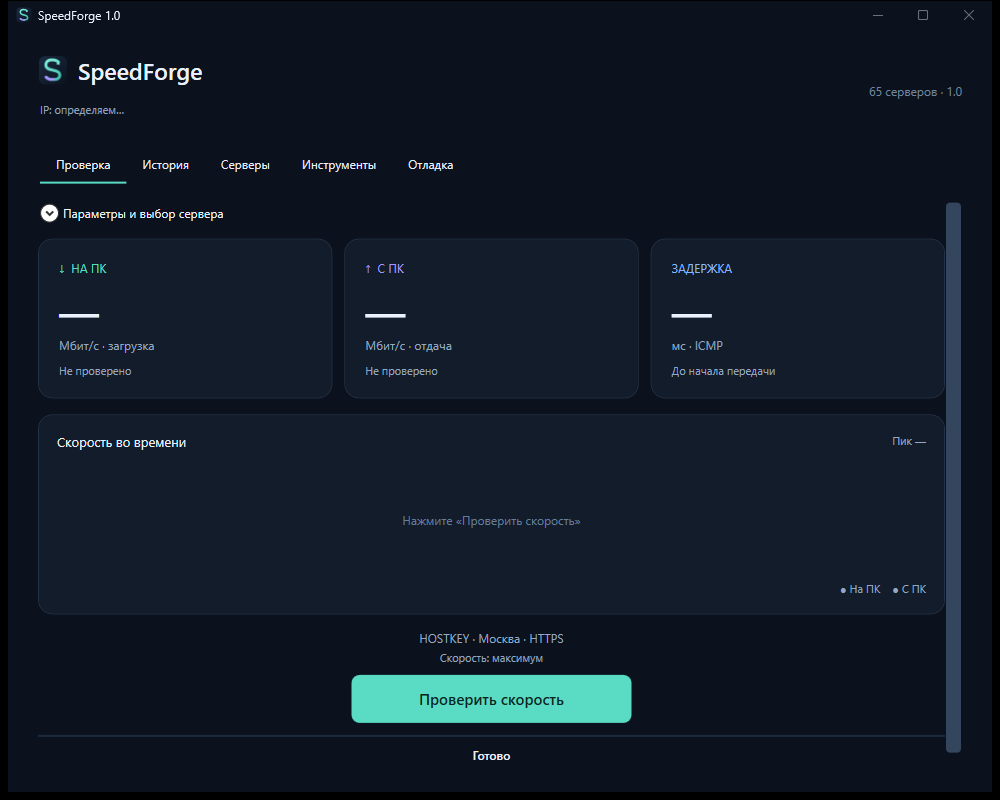
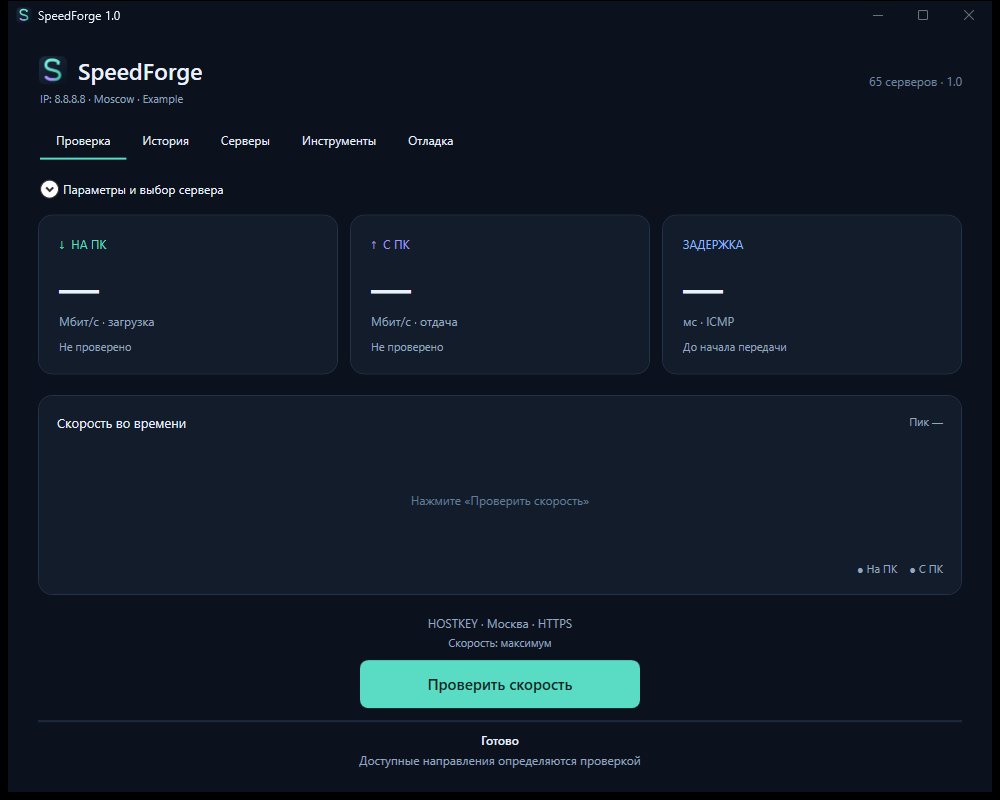
Keep startup IP compact and verify GeoIP layout and selection safeguards

diff --git a/src/SpeedForge.Desktop/MainWindow.xaml b/src/SpeedForge.Desktop/MainWindow.xaml
@@ -1,7 +1,7 @@
 <Window x:Class="SpeedForge.Desktop.MainWindow" xmlns="http://schemas.microsoft.com/winfx/2006/xaml/presentation" xmlns:x="http://schemas.microsoft.com/winfx/2006/xaml" Title="SpeedForge 1.0" Icon="/Assets/SpeedForge.ico" Width="1000" Height="800" MinWidth="840" MinHeight="700" Background="#0B121D" Foreground="#EAF1FC" FontFamily="Segoe UI" WindowStartupLocation="CenterScreen" Closing="Window_Closing">
 <Window.Resources><Style TargetType="TabItem"><Setter Property="Foreground" Value="#92A6BF"/><Setter Property="Padding" Value="16,10"/><Setter Property="Template"><Setter.Value><ControlTemplate TargetType="TabItem"><Border x:Name="TabBorder" Background="Transparent" BorderBrush="Transparent" BorderThickness="0,0,0,2" Padding="{TemplateBinding Padding}"><ContentPresenter ContentSource="Header"/></Border><ControlTemplate.Triggers><Trigger Property="IsSelected" Value="True"><Setter TargetName="TabBorder" Property="BorderBrush" Value="#59DBC4"/><Setter Property="Foreground" Value="#EAF1FC"/></Trigger><Trigger Property="IsMouseOver" Value="True"><Setter TargetName="TabBorder" Property="Background" Value="#14202F"/></Trigger></ControlTemplate.Triggers></ControlTemplate></Setter.Value></Setter></Style></Window.Resources>
 <Grid Background="#0B121D"><Grid Margin="30,24"><Grid.RowDefinitions><RowDefinition Height="Auto"/><RowDefinition Height="*"/></Grid.RowDefinitions>
-<DockPanel Margin="0,0,0,16"><TextBlock x:Name="CatalogCount" DockPanel.Dock="Right" Foreground="#70869F" FontSize="12" VerticalAlignment="Center"/><StackPanel><StackPanel Orientation="Horizontal"><Image Source="/Assets/SpeedForge.png" Width="30" Height="30" Margin="0,0,10,0" RenderOptions.BitmapScalingMode="HighQuality"/><TextBlock Text="SpeedForge" FontSize="23" FontWeight="SemiBold" VerticalAlignment="Center"/></StackPanel><TextBox x:Name="ConnectionInfo" Text="IP: определяем…" IsReadOnly="True" MaxWidth="590" HorizontalAlignment="Left" Background="Transparent" BorderThickness="0" Padding="0" Foreground="#92A6BF" FontSize="11" Margin="0,6,0,0"/><TextBlock x:Name="PageTitle" Visibility="Collapsed"/><TextBlock x:Name="PageSubtitle" Visibility="Collapsed"/></StackPanel></DockPanel>
+<DockPanel Margin="0,0,0,12"><TextBlock x:Name="CatalogCount" DockPanel.Dock="Right" Foreground="#70869F" FontSize="12" VerticalAlignment="Center"/><StackPanel><StackPanel Orientation="Horizontal"><Image Source="/Assets/SpeedForge.png" Width="30" Height="30" Margin="0,0,10,0" RenderOptions.BitmapScalingMode="HighQuality"/><TextBlock Text="SpeedForge" FontSize="23" FontWeight="SemiBold" VerticalAlignment="Center"/></StackPanel><TextBox x:Name="ConnectionInfo" Text="IP: определяем…" IsReadOnly="True" MinHeight="0" Height="18" MaxWidth="590" HorizontalAlignment="Left" Background="Transparent" BorderThickness="0" Padding="0" Foreground="#92A6BF" FontSize="11" Margin="0,4,0,0"/><TextBlock x:Name="PageTitle" Visibility="Collapsed"/><TextBlock x:Name="PageSubtitle" Visibility="Collapsed"/></StackPanel></DockPanel>
 <TabControl x:Name="MainTabs" Grid.Row="1" Background="Transparent" BorderThickness="0" Padding="0,18,0,0">
 <TabItem Header="Проверка"><ScrollViewer x:Name="MainScroll" VerticalScrollBarVisibility="Auto" HorizontalScrollBarVisibility="Disabled"><Grid><Grid.RowDefinitions><RowDefinition Height="Auto"/><RowDefinition Height="Auto"/><RowDefinition Height="*"/><RowDefinition Height="Auto"/></Grid.RowDefinitions>
 <Expander x:Name="AdvancedPanel" Header="Параметры и выбор сервера" Margin="0,0,0,14"><Border Style="{StaticResource Card}" Padding="16" Margin="0,10,0,0"><ScrollViewer MaxHeight="230" VerticalScrollBarVisibility="Auto"><StackPanel x:Name="OptionsPanel">

diff --git a/src/SpeedForge.Desktop/MainWindow.Verification.cs b/src/SpeedForge.Desktop/MainWindow.Verification.cs
@@ -10,7 +10,7 @@ namespace SpeedForge.Desktop;
 
 public partial class MainWindow
 {
-    public async Task<bool> VerifySandboxAsync(string directory, bool resetOnly = false)
+    public async Task<bool> VerifySandboxAsync(string directory, bool resetOnly = false, bool geoOnly = false)
     {
         Directory.CreateDirectory(directory);
         var cases = new List<object>();
@@ -19,6 +19,7 @@ public partial class MainWindow
         async Task Test(string name, Func<Task> action)
         {
             if (resetOnly && name is not ("Ручная загрузка не запускает отдачу" or "Смена сервера очищает прежние скорости и график" or "На главном экране видна ровно одна кнопка действия")) return;
+            if (geoOnly && !name.StartsWith("GeoIP:", StringComparison.Ordinal)) return;
             try { await action(); cases.Add(new { Name = name, Passed = true }); }
             catch (Exception ex) { failed++; cases.Add(new { Name = name, Passed = false, Error = ex.ToString() }); }
             await File.WriteAllTextAsync(Path.Combine(directory, "ui-tests.json"), JsonSerializer.Serialize(new { Failed = failed, Cases = cases }, VerificationJson));
@@ -219,6 +220,8 @@ public partial class MainWindow
             SelectServer(_servers.Single(x => x.Id == "rastrnet-https"));
             await RefreshNetworkAsync((_,_) => Task.FromResult(new NetworkIdentity("8.8.8.8","8.8.8.8","STUN","Moscow","Example",15169,new(55.75,37.61))));
             Require(CurrentServer().City == "Москва" && ConnectionInfo.Text.Contains("8.8.8.8"), "IP скрыт или выбран неверный город");
+            UpdateLayout(); await Task.Delay(100);
+            Require(MainScroll.ScrollableHeight < 1, "Строка IP вытеснила главный экран в прокрутку");
             SavePreview(Path.Combine(directory, "geoip-auto.png"));
             WindowPreview.Save(this, Path.Combine(directory, "geoip-window.png"));
         });

diff --git a/src/SpeedForge.Desktop/App.xaml.cs b/src/SpeedForge.Desktop/App.xaml.cs
@@ -6,7 +6,7 @@ public partial class App : Application
     protected override void OnStartup(StartupEventArgs e)
     {
         base.OnStartup(e);
-        string? dataRoot = e.Args.Length >= 2 && e.Args[0] is "--verify-ui" or "--verify-sandbox" or "--verify-reset" or "--verify-network"
+        string? dataRoot = e.Args.Length >= 2 && e.Args[0] is "--verify-ui" or "--verify-sandbox" or "--verify-reset" or "--verify-network" or "--verify-geo"
             ? Path.Combine(Path.GetFullPath(e.Args[1]), "app-data") : null;
         var window = new MainWindow(dataRoot, e.Args.Length == 0 || e.Args[0] == "--verify-network");
         MainWindow = window;
@@ -35,9 +35,9 @@ public partial class App : Application
                 try { Shutdown(await window.VerifyNetworkAsync(Path.GetFullPath(e.Args[1])) ? 0 : 1); }
                 catch (Exception ex) { Directory.CreateDirectory(e.Args[1]); File.WriteAllText(Path.Combine(e.Args[1], "fatal.txt"), ex.ToString()); Shutdown(2); }
             }
-            else if (e.Args.Length >= 2 && e.Args[0] is "--verify-sandbox" or "--verify-reset")
+            else if (e.Args.Length >= 2 && e.Args[0] is "--verify-sandbox" or "--verify-reset" or "--verify-geo")
             {
-                try { Shutdown(await window.VerifySandboxAsync(Path.GetFullPath(e.Args[1]), e.Args[0] == "--verify-reset") ? 0 : 1); }
+                try { Shutdown(await window.VerifySandboxAsync(Path.GetFullPath(e.Args[1]), e.Args[0] == "--verify-reset", e.Args[0] == "--verify-geo") ? 0 : 1); }
                 catch (Exception ex) { Directory.CreateDirectory(e.Args[1]); File.WriteAllText(Path.Combine(e.Args[1], "fatal.txt"), ex.ToString()); Shutdown(2); }
             }
         };
